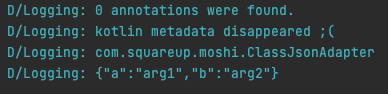
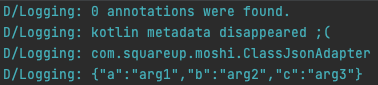
tweak: ¯\_(ツ)_/¯

Changed region(s): [[0.0, 0.4706, 0.9894, 0.9647], [0.0, 0.2588, 0.873, 0.4706], [0.0, 0.0235, 0.7857, 0.2353]]

diff --git a/app/src/main/java/io/github/jmatsu/proguardkotlintest/MainActivity.kt b/app/src/main/java/io/github/jmatsu/proguardkotlintest/MainActivity.kt
@@ -2,6 +2,7 @@ package io.github.jmatsu.proguardkotlintest
 
 import android.os.Bundle
 import android.util.Log
+import android.widget.TextView
 import androidx.appcompat.app.AppCompatActivity
 import com.squareup.moshi.Json
 import com.squareup.moshi.JsonAdapter
@@ -10,6 +11,10 @@ import com.squareup.moshi.internal.NullSafeJsonAdapter
 import com.squareup.moshi.kotlin.reflect.KotlinJsonAdapterFactory
 import com.squareup.moshi.rawType
 import java.lang.reflect.Type
+import kotlin.reflect.full.findAnnotation
+import kotlin.reflect.full.memberProperties
+import kotlin.reflect.full.primaryConstructor
+import kotlin.reflect.jvm.isAccessible
 
 class MainActivity : AppCompatActivity() {
     override fun onCreate(savedInstanceState: Bundle?) {
@@ -24,18 +29,24 @@ class MainActivity : AppCompatActivity() {
         val adapter =
             (moshi.adapter(Example::class.java) as NullSafeJsonAdapter).delegate()
 
+        val example = Example(arg1 = "to", arg2 = "keep", arg3 = "properties")
+
+        findViewById<TextView>(R.id.text).text = "${example.arg1} ${example.arg2} ${example.arg3}"
+
         // "com.squareup.moshi.kotlin.reflect.KotlinJsonAdapter was expected but not. ClassJsonAdapter was used instead.😨"
         Log.d("Logging", adapter.javaClass.name)
+        Log.d("Logging", adapter.toJson(Example(arg3 = "arg3")))
 
-        Log.d("Logging", adapter.toJson(Example()))
+
     }
 }
 
 data class Example(
-    @Json
+    @Json(name = "arg1")
     val arg1: String = "arg1",
     @Json(name = "different_name")
-    val arg2: String = "arg2"
+    val arg2: String = "arg2",
+    val arg3: String? = null
 )
 
 class JsonFactoryForLogging : JsonAdapter.Factory {
@@ -58,6 +69,31 @@ class JsonFactoryForLogging : JsonAdapter.Factory {
             return null
         } else {
             Log.d("Logging", "kotlin metadata was found. :)") // expected but not
+        }
+
+        val rawTypeKotlin = rawType.kotlin
+
+        val constructor = rawTypeKotlin.primaryConstructor ?: return null
+        val parametersByName = constructor.parameters.associateBy { it.name }
+        constructor.isAccessible = true
+
+        Log.d("Logging", "${rawTypeKotlin.memberProperties.size} properties were found")
+
+        for (property in rawTypeKotlin.memberProperties) {
+            val parameter = parametersByName[property.name]
+
+            property.isAccessible = true
+            var jsonAnnotation = property.findAnnotation<Json>()
+            val allAnnotations = property.annotations.toMutableList()
+
+            if (parameter != null) {
+                allAnnotations += parameter.annotations
+                if (jsonAnnotation == null) {
+                    jsonAnnotation = parameter.findAnnotation()
+                }
+            }
+
+            Log.d("Logging", "${property.name} is associated with ${jsonAnnotation?.name}")
         }
 
         return null

diff --git a/README.md b/README.md
@@ -1,18 +1,18 @@
 ※ https://eaglesakura.hatenablog.com/entry/2021/12/09/165209 用の調査
 
-It seems R8 eliminates Kotlin Metadata unexpectedly for Kotlin 1.6.0. This occurs crashes and/or unexpected behaviours for libraries that rely on Kotlin Metadata like Moshi.
+Kotlin 1.6.0 + Moshi Reflection + R8 
 
-R8 version (corresponding AGP version) | Work? | Note
+R8 version | Work? | Note
 :-----|:-----|:----
-3.0.73 (7.0.4) | :x: | kotlin metadata was not found so Moshi couldn't use KotlinJsonAdapter
-3.0.78 (?) | :x: | ditto. (The latest of R8 3.0.x)
-3.1.30 (7.1.0-beta04) | :x: | No crash happened but bindings are wrong.
-3.1.46 (?) | :x: | ditto (The latest of R8 3.1.x)
-3.2.31 (?) | :white_check_mark: | The latest of R8 3.2.x
-8470bf (?) | :white_check_mark: | HEAD of main branch
+3.0.73 (AGP 7.0.4) | :x: | kotlin metadata was not found so Moshi couldn't use KotlinJsonAdapter
+3.0.78 (The latest of 3.0.x) | :x: | No crash happened but member properties are missing.
+3.1.30 (AGP 7.1.0-beta04) | :x: | ditto.
+3.1.46 (The latest of 3.1.x) | :x: | ditto.
+3.2.31 (The latest of 3.2.x) | :white_check_mark: | N/A
+8470bf (HEAD of main) | :white_check_mark: | N/A
 
 Logs
 
-3.0.73, 3.0.78 | 3.1.30, 3.1.46 | 8470bf
+3.0.73 | 3.0.78, 3.1.30, 3.1.46 | 3.2.31, 8470bf, and AGP 4.2.2 w/ Kotlin 1.5.30
 :---|:----|:---
-![wont_work_1](assets/class-json-adapter.png)|![will_work](assets/wrong-property-binding.png)|![will_work](assets/expected.png)
+![wont_work_1](assets/class-json-adapter.png)|![wont_work_2](assets/missing-member-properties.png)|![will_work](assets/expected.png)
